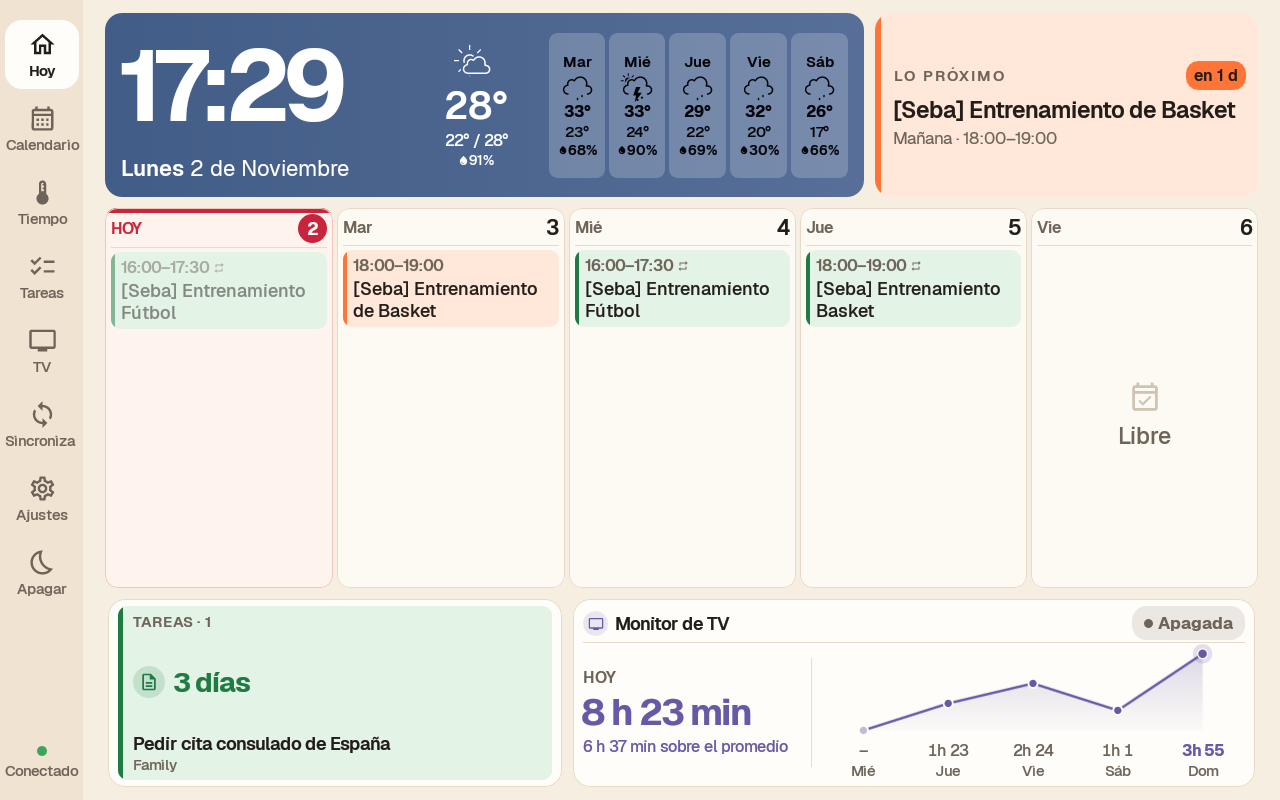
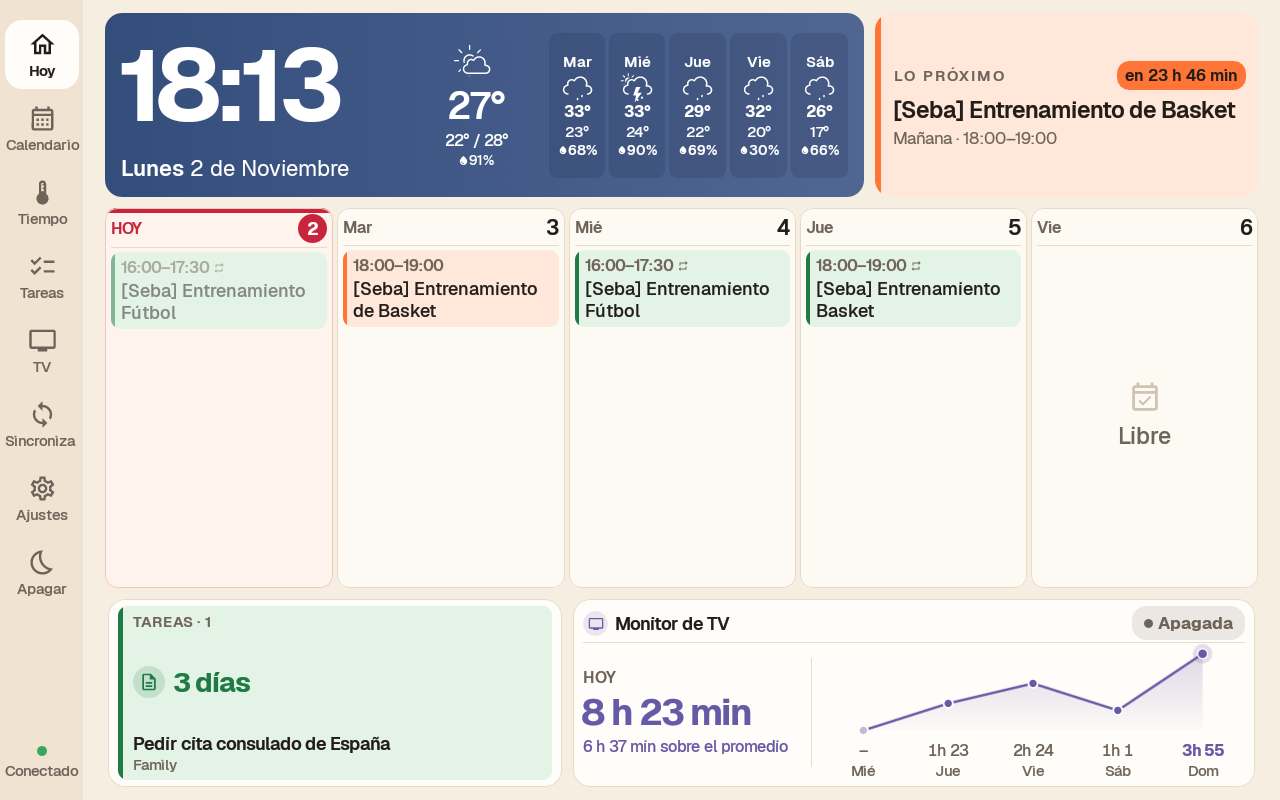
Update the font color of the weather card

Changed region(s): [[0.3438, 0.0312, 0.6875, 0.25], [0.125, 0.0625, 0.2812, 0.1562], [0.875, 0.0625, 0.9688, 0.125]]

diff --git a/android/app/src/main/java/com/lito/planify/dashboard/ui/OverviewColors.kt b/android/app/src/main/java/com/lito/planify/dashboard/ui/OverviewColors.kt
@@ -6,10 +6,21 @@ import androidx.compose.ui.graphics.colorspace.ColorSpaces
 import androidx.compose.ui.graphics.luminance
 import java.time.LocalTime
 
-internal data class OverviewColors(val start: Color, val end: Color) {
+internal data class OverviewColors(val start: Color, val end: Color, val whiteForecast: Boolean = false) {
     val content: Color get() = overviewContent(start, end)
-    val forecastSurface: Color get() = Color.White.copy(alpha = 0.20f)
-    val forecastContent: Color get() = overviewContent(forecastSurface.compositeOver(start), forecastSurface.compositeOver(end))
+    val forecastSurface: Color
+        get() {
+            if (!whiteForecast) return Color.White.copy(alpha = 0.20f)
+            // Keep a visible blue cell; darken only as much as white text needs.
+            return (18..100).asSequence().map { opacity ->
+                Color(0xFF182542).copy(alpha = opacity / 100f)
+            }.first { surface ->
+                minOf(overviewContrast(Color.White, surface.compositeOver(start)),
+                    overviewContrast(Color.White, surface.compositeOver(end))) >= 4.5f
+            }
+        }
+    val forecastContent: Color get() = if (whiteForecast) Color.White
+        else overviewContent(forecastSurface.compositeOver(start), forecastSurface.compositeOver(end))
 }
 
 private val OverviewInk = Color(0xFF020408)
@@ -30,6 +41,7 @@ private fun lerp(from: Color, to: Color, fraction: Float): Color {
 /** Local wall-clock time only: works offline and without a weather response. */
 internal fun overviewColors(time: LocalTime): OverviewColors {
     val minute = time.hour * 60 + time.minute + time.second / 60f
+    val whiteForecast = time.hour in 12..20
     fun between(from: OverviewColors, to: OverviewColors, start: Int, end: Int): OverviewColors {
         val fraction = (minute - start) / (end - start)
         // Keep the gradient narrow around the foreground change, so both ends remain legible.
@@ -60,10 +72,10 @@ internal fun overviewColors(time: LocalTime): OverviewColors {
             overviewContrast(safe.forecastContent, safe.forecastSurface.compositeOver(safe.start)),
             overviewContrast(safe.forecastContent, safe.forecastSurface.compositeOver(safe.end))
         )
-        if (minOf(contentContrast, forecastContrast) >= 4.5f) return safe
+        if (minOf(contentContrast, forecastContrast) >= 4.5f) return safe.copy(whiteForecast = whiteForecast)
         safe = OverviewColors(lerp(safe.start, center, 0.25f), lerp(safe.end, center, 0.25f))
     }
-    return OverviewColors(center, center)
+    return OverviewColors(center, center, whiteForecast = whiteForecast)
 }
 
 internal fun overviewContrast(a: Color, b: Color): Float =

diff --git a/android/app/src/test/java/com/lito/planify/dashboard/ui/OverviewColorsTest.kt b/android/app/src/test/java/com/lito/planify/dashboard/ui/OverviewColorsTest.kt
@@ -13,7 +13,8 @@ class OverviewColorsTest {
 
     @Test fun morningMatchesReferenceAndNightIsStable() {
         assertEquals(Color(0xFF91C8FA), at(7).start)
-        assertEquals(at(7), at(12))
+        assertEquals(at(7).start, at(12).start)
+        assertEquals(at(7).end, at(12).end)
         assertEquals(at(21), at(0))
         assertEquals(at(0), at(6))
         assertEquals(at(0), at(23, 59))
@@ -45,5 +46,36 @@ class OverviewColorsTest {
                 assertTrue("Forecast at $minute", overviewContrast(colors.forecastContent, colors.forecastSurface.compositeOver(background)) >= 4.5f)
             }
         }
+    }
+
+    @Test fun forecastIsWhiteFromNoonInclusiveUntilNinePmExclusive() {
+        assertTrue(!at(11, 59).whiteForecast)
+        for (minute in 720 until 1260) {
+            val colors = overviewColors(LocalTime.ofSecondOfDay(minute * 60L))
+            assertEquals("White forecast at $minute", Color.White, colors.forecastContent)
+            assertTrue(colors.whiteForecast)
+        }
+        assertTrue(!at(21).whiteForecast)
+        assertTrue(!at(0).whiteForecast)
+        assertTrue(at(18).whiteForecast)
+        assertTrue(at(20, 59).whiteForecast)
+    }
+
+    @Test fun forecastExceptionDoesNotChangeHeaderOrMorningAndNightCells() {
+        for (minute in 0 until 1440) {
+            val colors = overviewColors(LocalTime.ofSecondOfDay(minute * 60L))
+            val original = colors.copy(whiteForecast = false)
+            assertEquals(original.content, colors.content)
+            if (minute !in 720 until 1260) {
+                assertEquals(Color.White.copy(alpha = 0.20f), colors.forecastSurface)
+                assertEquals(original.forecastContent, colors.forecastContent)
+            } else {
+                for (background in listOf(colors.start, colors.end)) {
+                    assertTrue(colors.forecastSurface.compositeOver(background).luminance() < background.luminance())
+                }
+            }
+        }
+        assertEquals(Color(0xFF91C8FA), at(12).start)
+        assertEquals(Color(0xFFDEEEFF), at(12).end)
     }
 }

diff --git a/SPECS/current-version/SPEC.md b/SPECS/current-version/SPEC.md
@@ -27,7 +27,7 @@ No incluye rebranding del icono, cambios en Google Cloud/DNS, migración de dato
 
 - **FR-09:** Barra lateral con Hoy, Calendario, Tiempo, Tareas, TV, Sincroniza, Ajustes y Apagar; iconos/etiquetas, seleccionado y respuesta al pulsar. Indicador Conectado/Sincroniza/Sin conexión/Error de sync, sin reloj lateral. Tras 120 s sin interacción fuera de Inicio se vuelve a Hoy; Atrás no cierra el launcher.
 - **FR-10:** Inicio conserva tres filas de aproximadamente 24,5%, 50,5% y 25%: resumen y siguiente actividad; agenda de hoy más cuatro días; Tareas y TV. Es de consulta, salvo la acción de configuración de TV. No hay edición de eventos ni tareas.
-- **FR-11:** La tarjeta de hora/fecha/clima usa hora local, no `is_day`: 06–07 aclarado; 07–12 celeste matinal; 12–18 oscurecimiento; 18–21 transición nocturna; 21–06 azul oscuro. Texto/iconos adaptativos con contraste ≥4,5:1 en ambos extremos del degradado y sobre celdas blancas al 20%. Funciona sin previsión y sin saltos de etapa perceptibles.
+- **FR-11:** La tarjeta de hora/fecha/clima usa hora local, no `is_day`: 06–07 aclarado; 07–12 celeste matinal; 12–18 oscurecimiento; 18–21 transición nocturna; 21–06 azul oscuro. Texto/iconos adaptativos con contraste ≥4,5:1 en ambos extremos del degradado y en las celdas. En las cinco previsiones, texto e iconos son blancos desde las 12:00 inclusive hasta las 21:00 exclusive; su fondo azul se oscurece lo necesario para mantener ≥4,5:1. Fuera de ese rango conservan contenido adaptativo sobre blanco al 20%. Esta excepción no modifica reloj, fecha, clima actual ni degradado general. Funciona sin previsión y sin saltos de etapa perceptibles en el fondo general.
 - **FR-12:** Clima actual con temperatura 62 sp, icono 64 dp, mín./máx. y probabilidad de lluvia siempre visible; cinco previsiones con icono 48 dp, máxima 24 sp y mínima 20 sp. Reloj 164 sp y fecha 36 sp. Las cifras y composición no cambian durante la limpieza.
 - **FR-13:** Agenda y «Lo próximo»: recurrente verde; resto color de su calendario; barra y fondo tintado al 16%, texto oscuro. Se muestran rangos horarios si hay fin, repetición para recurrentes y atenuación del pasado. «Lo próximo» incluye cuenta regresiva natural con cápsula de contraste adaptativo.
 - **FR-14:** Hoy destacado con tinte, franja roja y número en círculo rojo; días sin actividades muestran «Libre». Listas con desbordamiento muestran «+N más». No hay card independiente de rutinas semanales: recurrentes y eventos comparten agenda.

diff --git a/SPECS/current-version/TASKS.md b/SPECS/current-version/TASKS.md
@@ -21,6 +21,14 @@
 - [x] Comparar nombre, applicationId y certificado del APK con la release previa — `aapt` confirma Family Dashboard y `com.lito.planify.dashboard`; `apksigner` verifica firma válida y SHA-256 del certificado idéntico.
 - [x] Con autorización expresa, actualizar la Fire HD 8 con `adb install -r` y revisar Inicio, TV y Contenido — Resultado: sin desinstalar ni cerrar sesión; mismos eventos/tarea y selección (2 de 5 calendarios y 1 de 2 listas), TV conserva 8 h 23 min del día y los periodos previos. Horario activo y brillo automático siguen indicados. No se cambió ningún control. Capturas de verificación con datos privados se mantienen fuera del repositorio; `docs/images/today.png` se actualizó con Inicio.
 
+## Previsiones blancas por la tarde (FR-11)
+
+- [x] Confirmar texto/iconos blancos entre 12:00 y 21:00 y autorización para oscurecer solo las mini-tarjetas; no cambiar el resto de la cabecera.
+- [x] Aplicar la excepción después de resolver la paleta original, ajustando opacidad de azul oscuro hasta contraste ≥4,5:1; reloj, fecha y clima actual no cambian.
+- [x] Probar límites 11:59/12:00/18:00/20:59/21:00, todos los minutos y conservación del degradado general — `OverviewColorsTest`, incluyendo contraste de todas las superficies durante los 1440 minutos.
+- [x] Ejecutar `testDebugUnitTest assembleRelease` — **135 pruebas, 0 fallos; BUILD SUCCESSFUL**. Verificados mismo applicationId y certificado. Actualización en sitio autorizada e instalada en Fire HD 8 sin cambiar reloj ni ajustes.
+- [x] Revisar visualmente las cinco previsiones tras actualizar a las 18:13: días, iconos, temperaturas y lluvia blancos sobre azul oscuro; resto de Inicio conservado. Captura renovada en `docs/images/today.png`. La comparativa `overview-times.png` conserva evidencia anterior del degradado general; la apariencia de sus mini-tarjetas queda sustituida por este cambio.
+
 ## Pendientes ajenos a la limpieza
 
 La mejora posterior de zona horaria TV está especificada y verificada en [tv-weather-timezone](../tv-weather-timezone/TASKS.md): usa la ubicación meteorológica, recalcula sin alterar registros y conserva compatibilidad con preferencias/caché antiguas. Su ejecución de pruebas es posterior a los resultados de la limpieza registrados arriba.

diff --git a/SPECS/current-version/DESIGN.md b/SPECS/current-version/DESIGN.md
@@ -16,7 +16,7 @@ Adaptación de Planify Dashboard para Amazon Fire. Se conserva el paquete Java/K
 | Inicio de consulta | Cinco días con eventos/recurrentes integrados, Tareas protagonista y tendencia TV |
 | Recurrentes verdes, otros del calendario | Barra y tinte al 16%; textos oscuros y cápsula de cuenta regresiva con contraste adaptativo |
 | Paleta por hora local | `OverviewColors.kt`: mañana `#91C8FA → #DEEEFF`, tarde `#354F7E → #526895`, noche `#182542 → #30385F`; transición RGB lineal y contenido casi negro/blanco |
-| Contraste durante transición | Se reduce la amplitud del degradado si sus extremos no permiten 4,5:1; celdas de previsión eligen su contenido sobre blanco al 20% |
+| Contraste durante transición | Se reduce la amplitud del degradado si sus extremos no permiten 4,5:1; después de resolver ese fondo, las cinco previsiones fuerzan blanco entre 12:00 y 21:00 con una superficie azul oscura de opacidad ajustada hasta alcanzar ≥4,5:1 en ambos extremos. Fuera del rango mantienen contenido adaptativo sobre blanco al 20%. La excepción no participa en la elección del degradado, para conservar reloj, fecha y clima actual |
 | Tareas con reglas compartidas | `TaskUi.kt` y `TaskSections.kt`; orden, filtros, vencimientos e iconos comunes a Inicio/Tareas |
 | TV local e historial independiente de Google | `TvLocalUsageRepository`; conserva registros importados y campos de metadatos aunque se retire el importador |
 | Zona TV de la ubicación del tiempo | `WeatherTimeZone.kt`, campos opcionales de zona/coordenadas, recálculo al cambiar ubicación y `ZonedDateTime` compartido para agregados/presentación; fallback al dispositivo, sin migrar registros |

diff --git a/docs/ARCHITECTURE.md b/docs/ARCHITECTURE.md
@@ -53,7 +53,7 @@ Las rutas siguientes están bajo `android/app/src/main/java/com/lito/planify/das
 
 Geometría basada en 1920 × 1200, escala hasta 1 según lados largo/corto. En 1280 × 800 resulta 0,667; el texto usa `fontScale` mínimo de 1,35 cuando se reduce la geometría. La Fire emplea banderas inmersivas legacy; las versiones recientes usan controladores de insets.
 
-La identidad visual usa crema/azul y tokens de `ui/theme/Theme.kt`. Geist es la tipografía principal; Geist Mono sigue en Tiempo y el reloj nocturno. La cabecera de Inicio interpola colores según hora local y selecciona contenido por contraste, incluyendo celdas con blanco al 20%.
+La identidad visual usa crema/azul y tokens de `ui/theme/Theme.kt`. Geist es la tipografía principal; Geist Mono sigue en Tiempo y el reloj nocturno. La cabecera de Inicio interpola colores según hora local y selecciona contenido por contraste. Las cinco previsiones fuerzan texto/iconos blancos entre 12:00 y 21:00 sobre azul oscuro de opacidad ajustada para contraste ≥4,5:1; fuera de ese horario conservan contenido adaptativo sobre blanco al 20%. El ajuste de las celdas no altera degradado, reloj, fecha ni clima actual.
 
 El modo nocturno reduce el brillo de ventana a `1/255`. Las alarmas conservan alternativas para API 22. La instalación documentada no es Device Owner; las políticas de quiosco solo actúan si se aprovisionan por separado. El botón de retorno y el servicio opcional de apagado se conservan por sus referencias activas.
 
